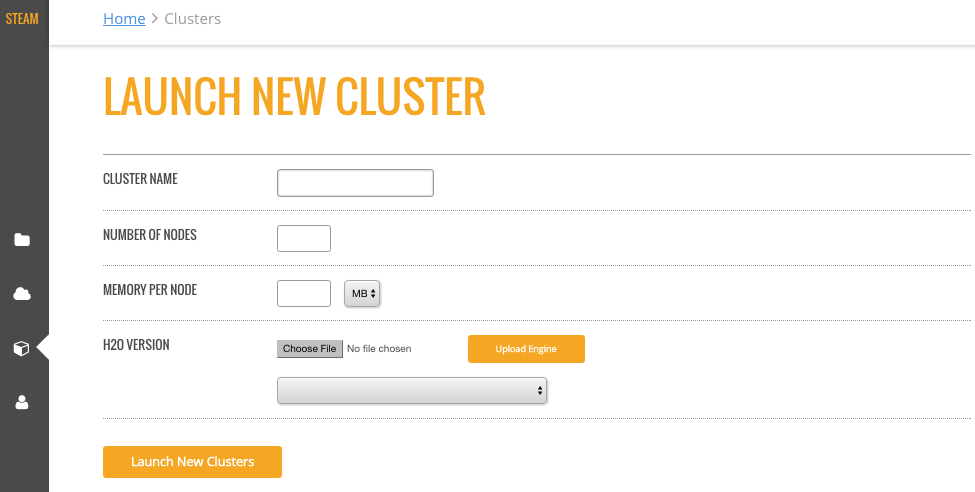
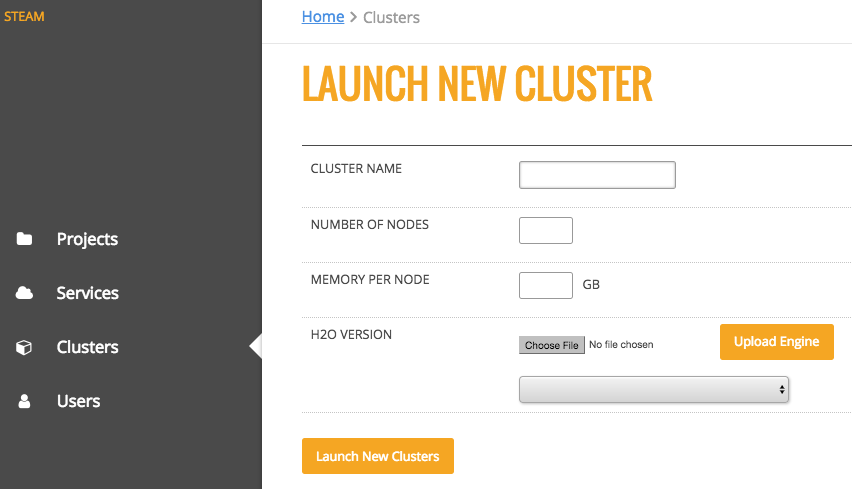
STEAM-614: Remove MB option when launching a new cluster
In the Launch New Cluster section of the UG, removed MB as an option
when specifying the node size. Also updated the screen shot.

diff --git a/docs/Clusters.rst b/docs/Clusters.rst
@@ -18,7 +18,7 @@ You can connect to additional clusters that are running H2O by clicking the **La
 
  - Cluster Name
  - Number of Nodes
- - Memory per Node (in MB or GB)
- - H2O version (specifying a zip file)
+ - Memory per Node (in GB)
+ - H2O version (specify a zip file or upload an engine)
 
 2. Click **Launch New Clusters** when you are done. 
